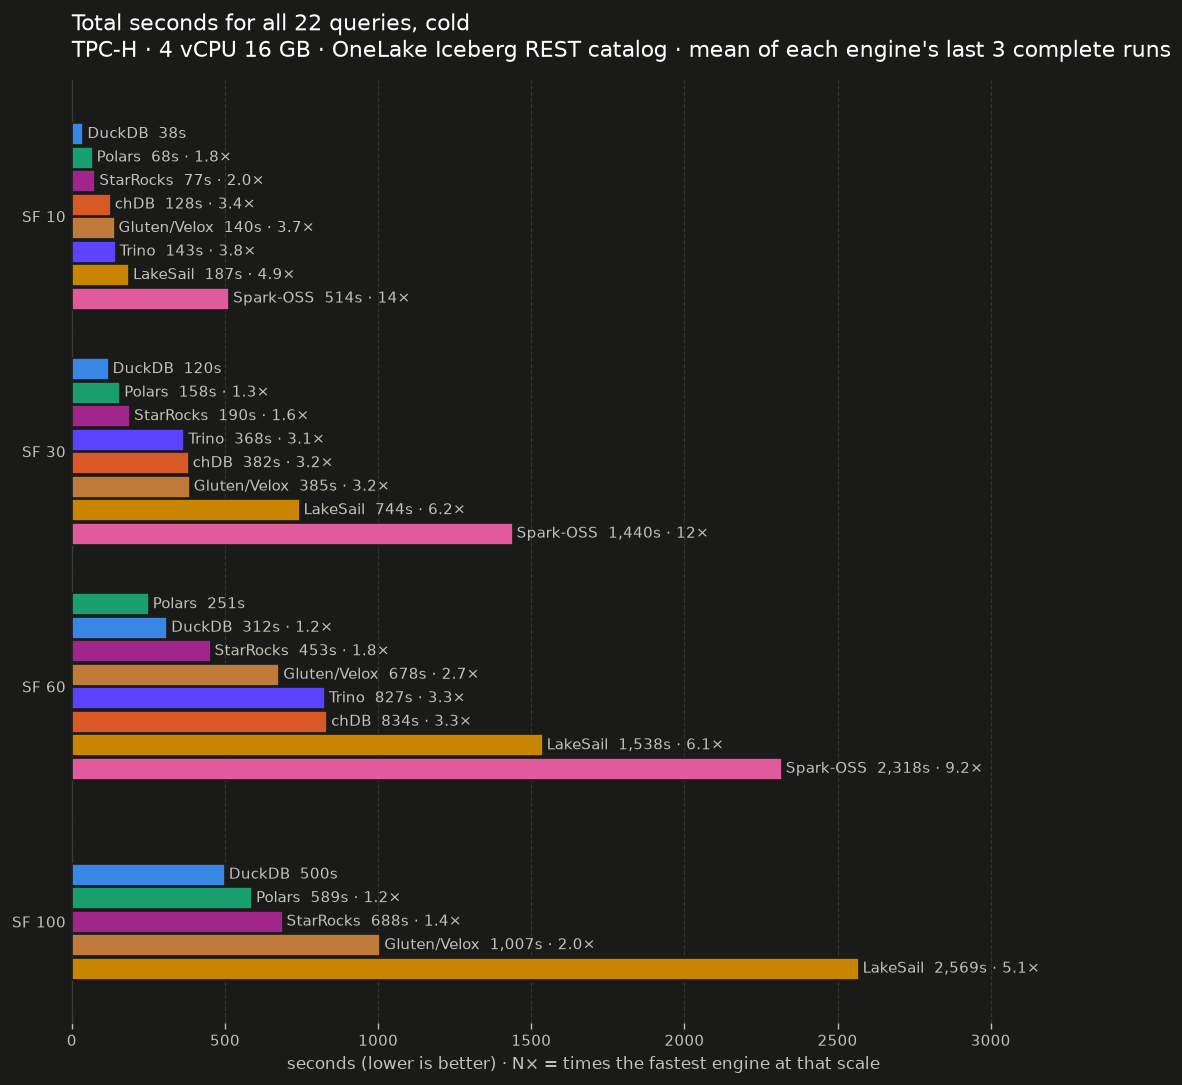
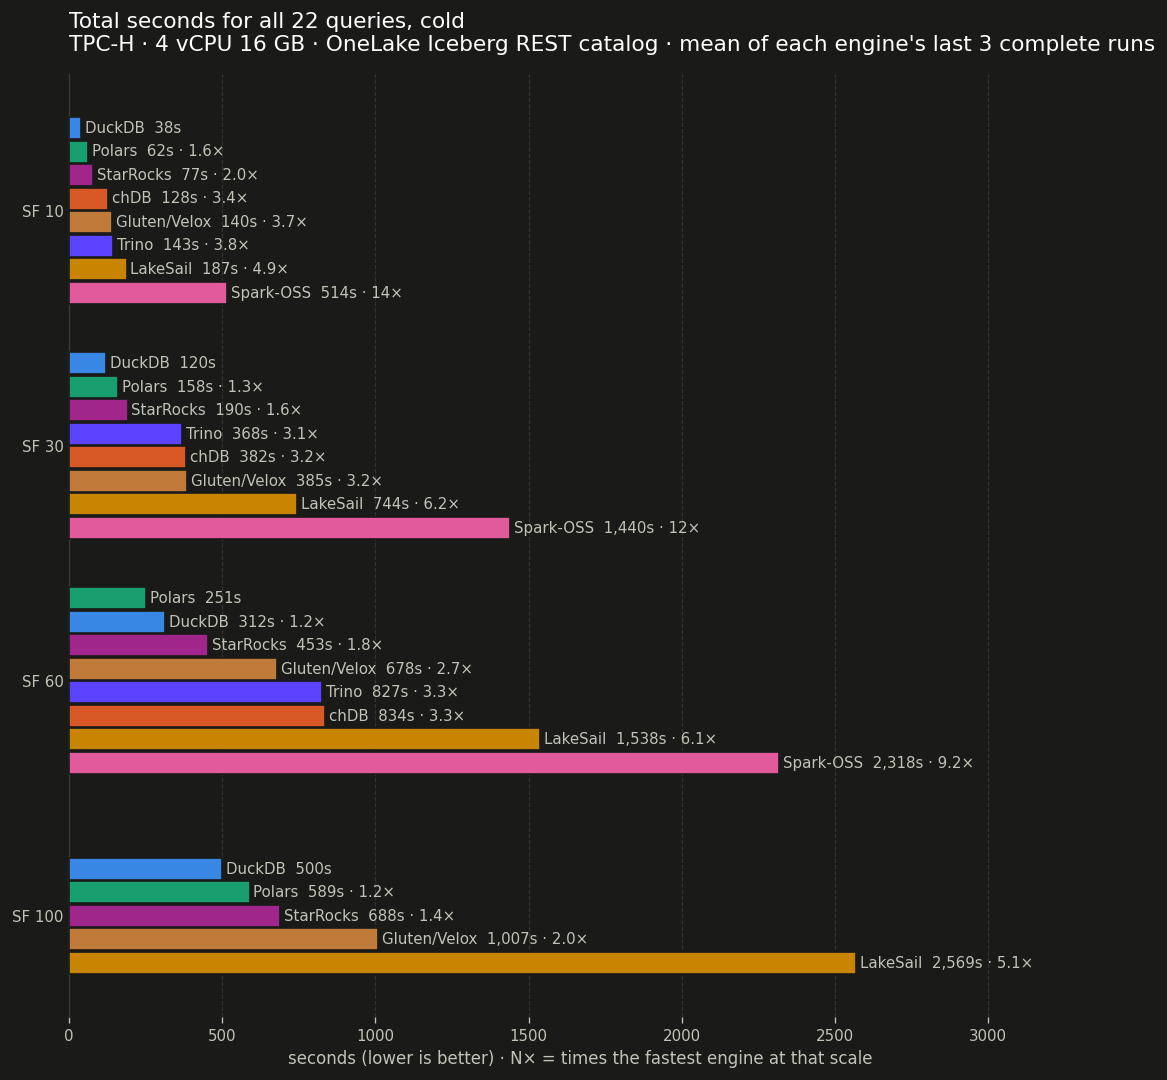
Revert "bench: SF=10 results for run 38841882890"
Drops the Polars-only SF=10 run on build 769413ba3f and what it published.

diff --git a/docs/RESULTS.md b/docs/RESULTS.md
@@ -58,6 +58,6 @@ Seconds, cold pass. `—` means the query failed or did not run; see Failures ab
 
 ## History
 
-1,564 timed statements across 50 runs.
+1,541 timed statements across 49 runs.
 Raw data: one immutable JSON per run under [`results/`](../results/), flattened to [`data/tpch_results.csv`](data/tpch_results.csv).
 
